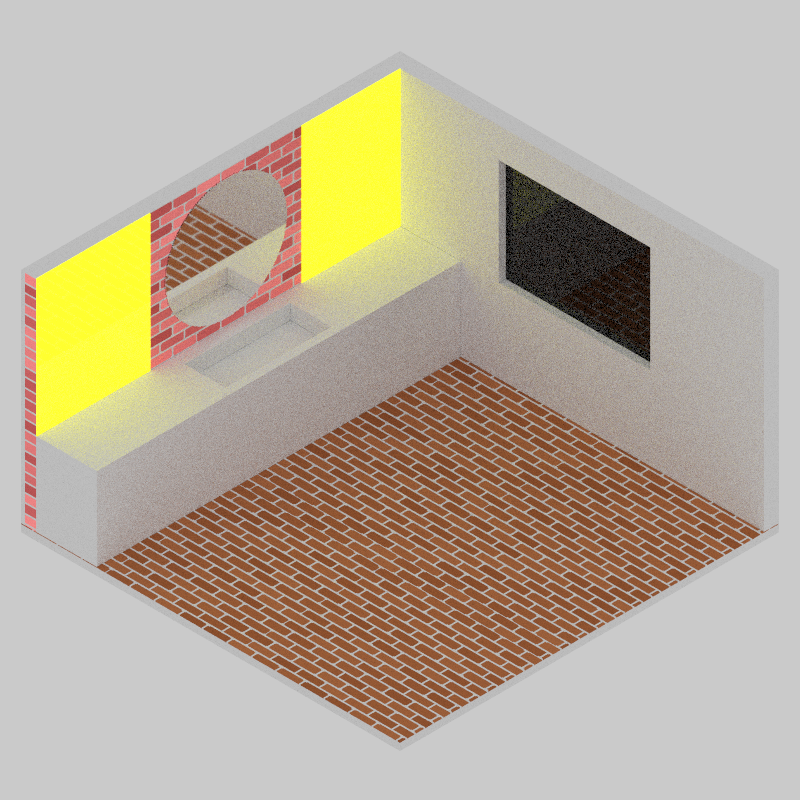
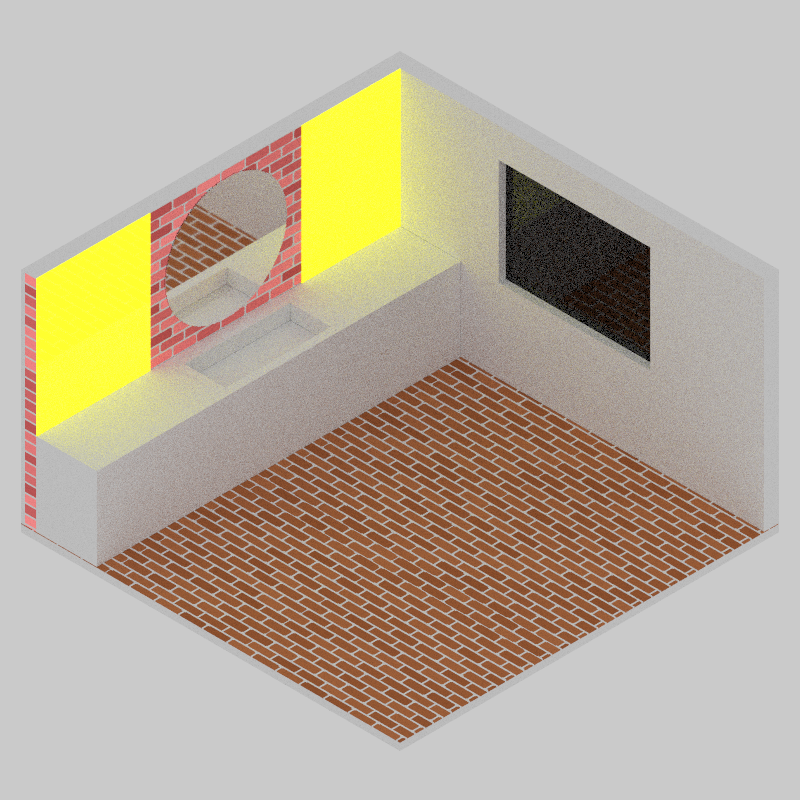
Minor tweaks

diff --git a/shapezlib/src/node/execution.rs b/shapezlib/src/node/execution.rs
@@ -742,6 +742,11 @@ impl Execution {
             })
             .collect();
 
+        let aabb = Aabb {
+            min: -size * 0.5,
+            max: size * 0.5,
+        };
+
         let produced: Vec<(Coord, Tile)> = tile_keys
             .into_par_iter()
             .map(|tile_key| {
@@ -749,14 +754,13 @@ impl Execution {
                 let tile_origin = Vec3::new(tile_key.0 as F, tile_key.1 as F, tile_key.2 as F);
 
                 let mut exec = Execution::new_from_var(self);
-                let mut p = program.clone();
+                let mut p = Program::new(Vec3::zero(), grid.density);
 
                 let centre = rect.origin + rect.size * 0.5;
 
                 for z in 0..grid.density {
                     for y in 0..grid.density {
                         for x in 0..grid.density {
-                            // absolute position (same as you have now)
                             let world_abs = (tile_origin
                                 + Vec3::new(x as F, y as F, z as F) / grid.density_f)
                                 + Vec3::broadcast(voxel_size * 0.5);
@@ -767,10 +771,7 @@ impl Execution {
                             exec.stack.clear();
                             exec.world = Value::from_vec3(world);
                             exec.local = Value::from_vec3(local);
-                            exec.bbox = Aabb {
-                                min: -size * 0.5,
-                                max: size * 0.5,
-                            };
+                            exec.bbox = aabb;
 
                             exec.execute(&voxel.body, &mut p);
                             if let Some(val) = exec.stack.last() {
